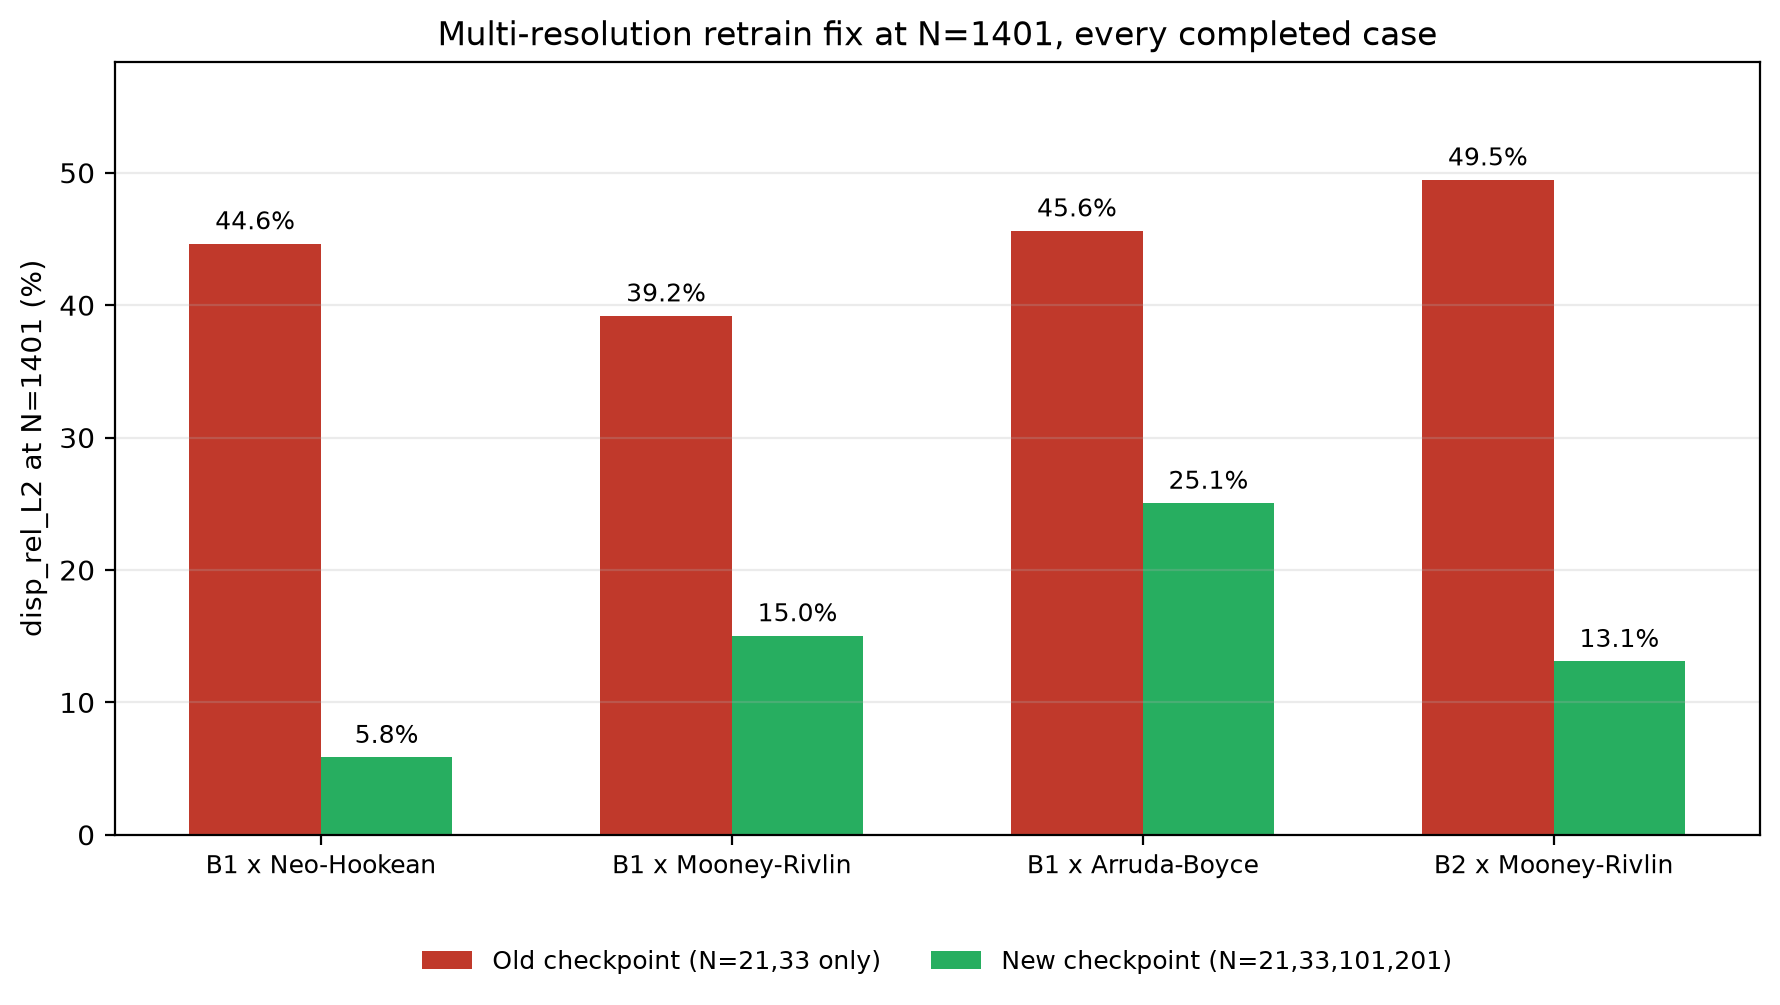
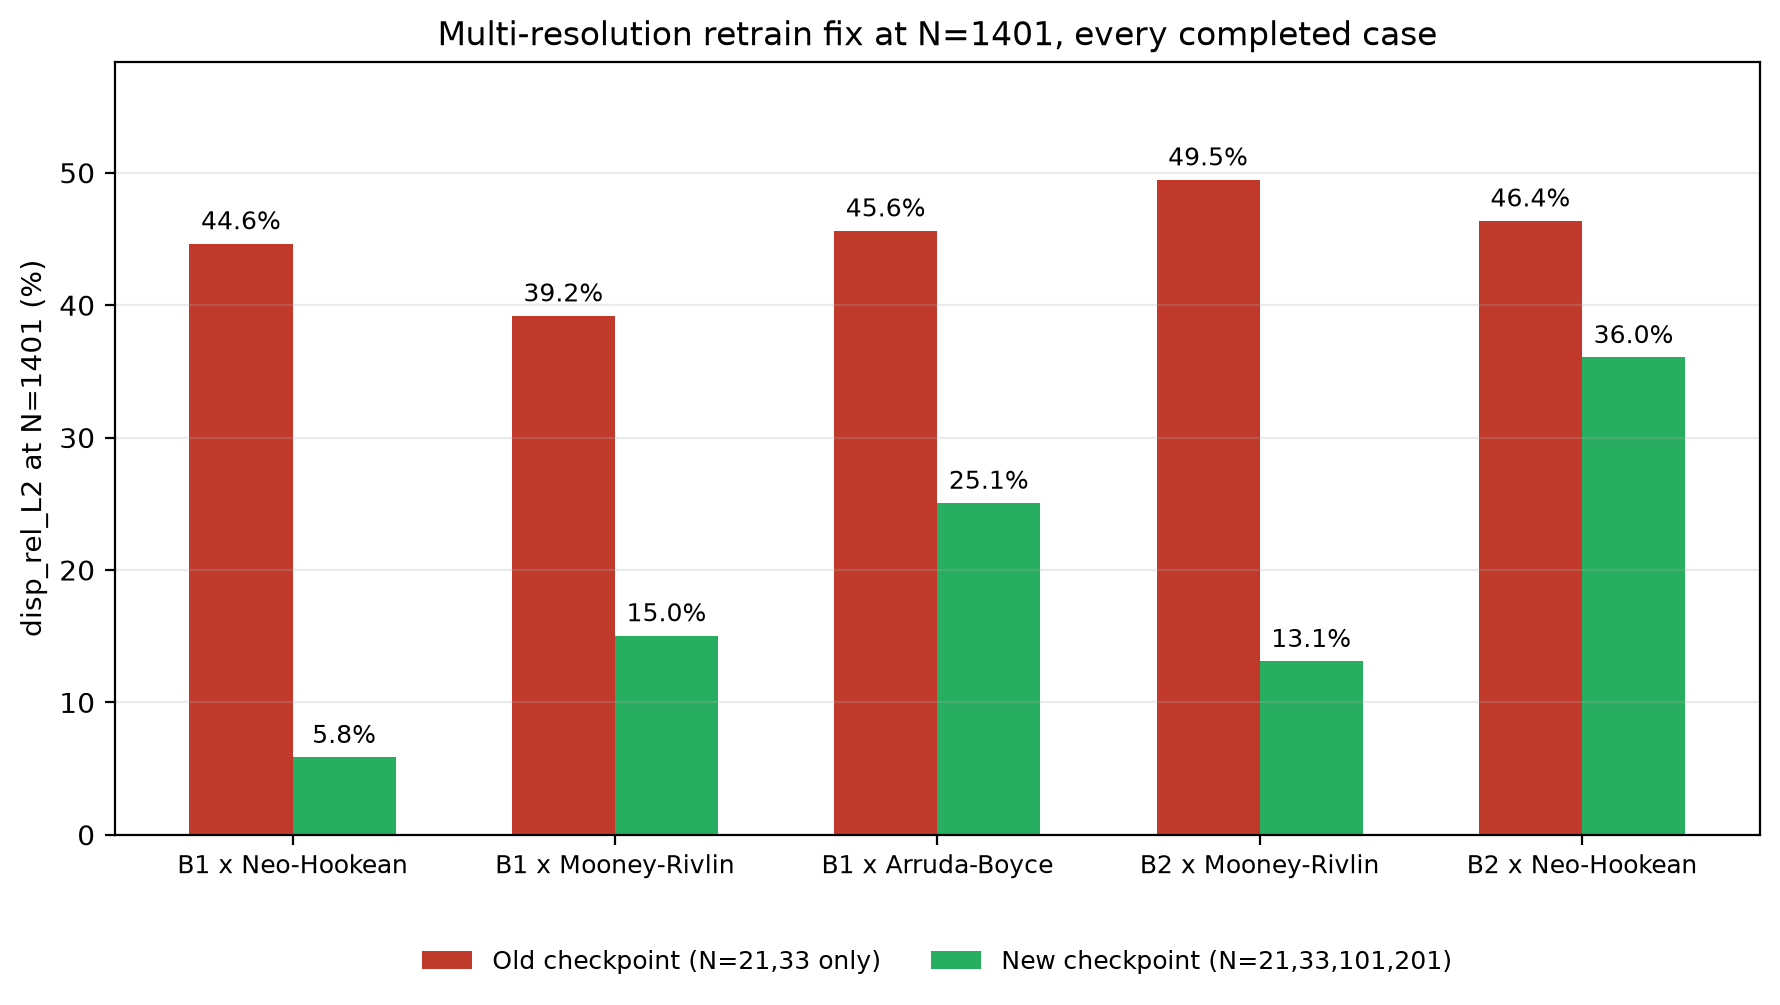
Draft: add B2xNeo-Hookean to the multi-res retrain summary figure (5 cases, pending Omar's review)
B2xNeo-Hookean's own multi-res retrain finished on real GPU (46.37% ->
36.05% at N=1401, ~22.3% relative reduction). Draft-updated the summary
figure to include it as a 5th case, sent for review before embedding in
the Report/Summary docx files per the established workflow.

Claude-Session: https://claude.ai/code/session_01HX6Lr5YENQbEkvto9y2AB8

Changed region(s): [[0.0927, 0.1542, 0.9579, 0.8945]]

diff --git a/Practical_Examples/report_builders/make_figure_multires_retrain_summary.py b/Practical_Examples/report_builders/make_figure_multires_retrain_summary.py
@@ -6,15 +6,15 @@ main-sequence figure number, since this is a direct, same-subsection
 extension of that round-10 material, not a new numbered section.
 
 Numbers transcribed directly from PROJECT_STATUS.md's own real-GPU
-entries (B1xNeo-Hookean, B1xMooney-Rivlin, B1xArruda-Boyce) and this
-session's own real GPU log (B2xMooney-Rivlin) -- see
-add_multires_retrain_extension_to_report.py for the exact same numbers
-used in the accompanying tables, so the figure and the tables cannot
-silently drift apart.
+entries (B1xNeo-Hookean, B1xMooney-Rivlin, B1xArruda-Boyce) and real GPU
+logs pasted directly into the working conversation (B2xMooney-Rivlin,
+B2xNeo-Hookean) -- see add_multires_retrain_extension_to_report.py for
+the exact same numbers used in the accompanying tables, so the figure
+and the tables cannot silently drift apart.
 
-B2xNeo-Hookean is deliberately NOT plotted here: its own multi-res
-retrain was still mid-training as of this figure's build date, so it
-has no final N=1401 number yet.
+B2xNeo-Hookean ADDED 2026-09-17 once its own retrain finished (was
+previously excluded as still mid-training) -- the fifth and last
+completed case (B2xArruda-Boyce has no retrain planned).
 """
 import os
 
@@ -28,9 +28,10 @@ from plot_style import add_bar_labels
 OUT = os.path.join(os.path.dirname(os.path.abspath(__file__)), 'figures')
 os.makedirs(OUT, exist_ok=True)
 
-CASES = ['B1 x Neo-Hookean', 'B1 x Mooney-Rivlin', 'B1 x Arruda-Boyce', 'B2 x Mooney-Rivlin']
-OLD = [44.65, 39.20, 45.62, 49.47]
-NEW = [5.85, 15.04, 25.05, 13.10]
+CASES = ['B1 x Neo-Hookean', 'B1 x Mooney-Rivlin', 'B1 x Arruda-Boyce',
+         'B2 x Mooney-Rivlin', 'B2 x Neo-Hookean']
+OLD = [44.65, 39.20, 45.62, 49.47, 46.37]
+NEW = [5.85, 15.04, 25.05, 13.10, 36.05]
 
 x = np.arange(len(CASES))
 width = 0.32
